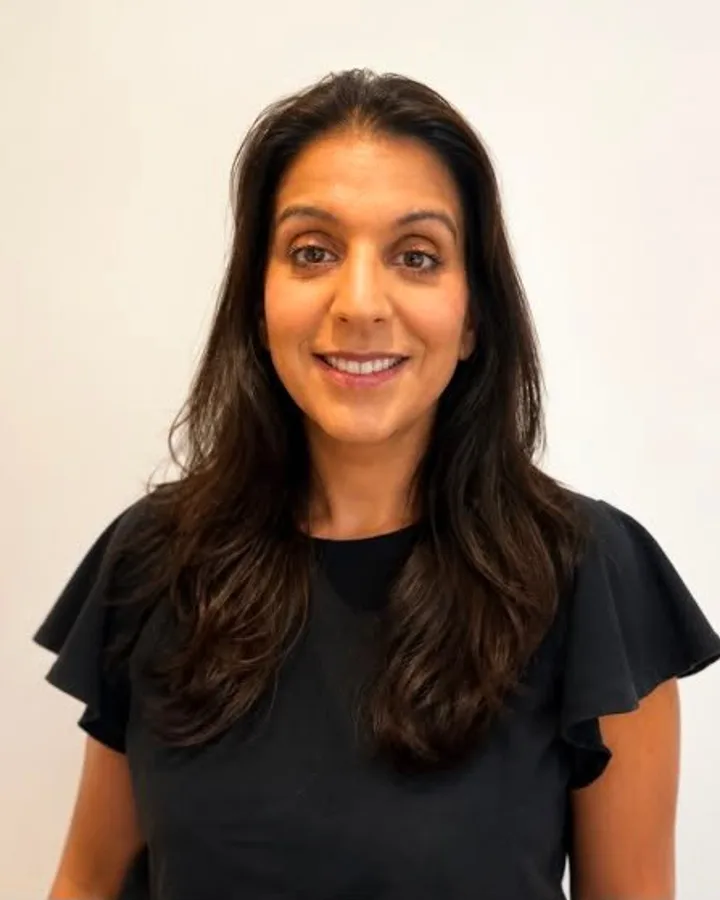
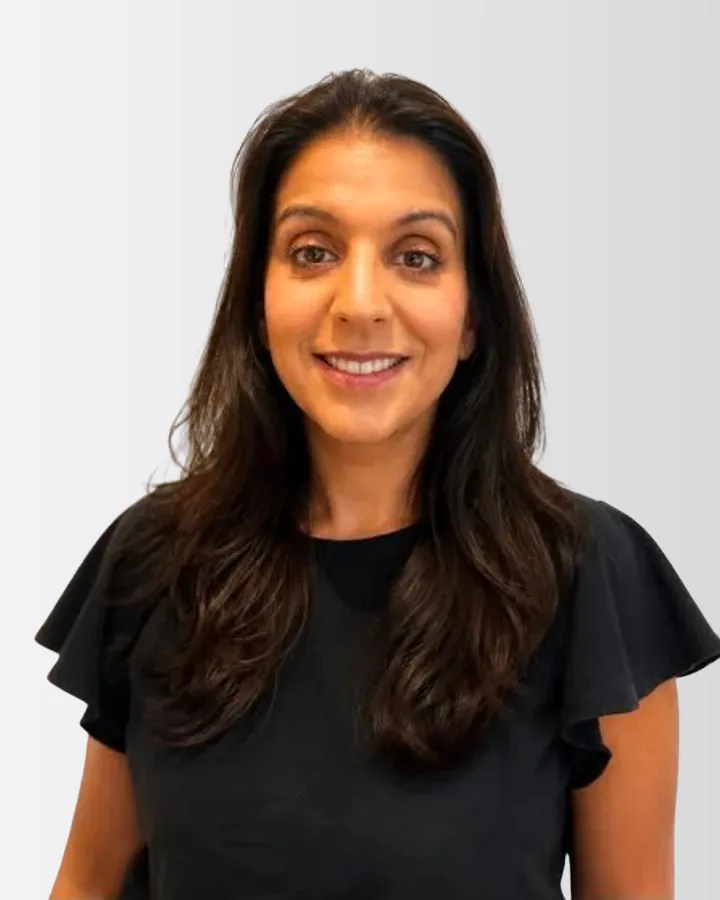
New photo for Dr Natasha Sumar; reviews slider mixes Doctify and Google
- Dr Natasha Sumar's headshot replaced with the supplied portrait, built
  to the same 4:5 crop as the other GP photos.
- Reviews slider now carries the latest ten Doctify reviews and the latest
  ten Google reviews, alternating one from each source. Review text, author
  and date come from the clinic's syndicated review feed, which tags each
  review with its source listing.
- Each card shows its source mark, long reviews are clamped so every card
  is the same height, and the section header now carries a Google rating
  alongside the Doctify one.

Claude-Session: https://claude.ai/code/session_01BfDfekHkooqy5vkZfJmkhr

diff --git a/public/index.html b/public/index.html
@@ -180,24 +180,42 @@ height="0" width="0" style="display:none;visibility:hidden"></iframe></noscript>
   <div class="container">
     <div class="reviews-head">
       <h2 id="reviews-title">What patients say after seeing a Niva GP</h2>
-      <a class="rating-pill" href="https://www.doctify.com/uk/practice/niva-medical-clinic" target="_blank" rel="noopener">
-        <img src="/assets/logos/doctify.svg" alt="Doctify" width="90" height="24">
-        <span class="stars" aria-hidden="true">★★★★★</span>
-        <strong>5.0</strong> <span>from 104 verified patients</span>
-      </a>
+      <div class="rating-pills">
+        <a class="rating-pill" href="https://www.doctify.com/uk/practice/niva-medical-clinic" target="_blank" rel="noopener">
+          <img src="/assets/logos/doctify.svg" alt="Doctify" width="90" height="24">
+          <span class="stars" aria-hidden="true">★★★★★</span>
+          <strong>5.0</strong> <span>from 104 verified patients</span>
+        </a>
+        <a class="rating-pill" href="https://maps.app.goo.gl/KWaXPmD4ticL5Gbr7" target="_blank" rel="noopener">
+          <img src="/assets/logos/google.svg" alt="Google" width="24" height="24">
+          <span class="stars" aria-hidden="true">★★★★★</span>
+          <strong>5.0</strong> <span>from 265 Google reviews</span>
+        </a>
+      </div>
     </div>
   </div>
   <div class="marquee">
     <div class="marquee-track">
-      <article class="review"><div class="stars" aria-label="5 stars">★★★★★</div><p>I had a wonderful experience at Niva Medical Clinic. The doctor was very professional, caring and attentive. A special mention to the amazing receptionist, who was incredibly friendly, helpful and welcoming and made me feel comfortable from the moment I arrived. Excellent service from start to finish.</p><footer><img src="/assets/logos/doctify.svg" alt="Doctify"> Verified patient, 4 Sep 2026</footer></article>
-      <article class="review"><div class="stars" aria-label="5 stars">★★★★★</div><p>We recently visited with my elderly parent and were extremely impressed. Dr Varsani took the time to listen patiently and explained everything clearly in Gujarati, which made my parent feel completely at ease and understood. We left feeling reassured and confident about the next steps.</p><footer><img src="/assets/logos/doctify.svg" alt="Doctify"> Verified patient, 26 Sep 2025</footer></article>
-      <article class="review"><div class="stars" aria-label="5 stars">★★★★★</div><p>Very impressed with the services provided by Niva. As a result I have decided to set up a Membership, not only to get a good discount on the appointments but also because of the options included. Very satisfied with the services I have been provided so far, not only by the GP but also the staff at the front desk.</p><footer><img src="/assets/logos/doctify.svg" alt="Doctify"> Verified patient, 20 May 2026</footer></article>
-      <article class="review"><div class="stars" aria-label="5 stars">★★★★★</div><p>I went in to get checked for a strain in my leg due to an injury and was diagnosed by Dr Bhavika. I felt so much at ease discussing my ailment with her. She was extremely polite, had a very pleasant and empathetic tone of voice and gave me clear instructions on what needs to be done. Highly recommend this clinic.</p><footer><img src="/assets/logos/doctify.svg" alt="Doctify"> Verified patient, 27 Feb 2026</footer></article>
-      <article class="review"><div class="stars" aria-label="5 stars">★★★★★</div><p>Nirav was professional, kind, and took the time to explain everything clearly without rushing. Most importantly, he was great with my 13-year-old and kept her calm and at ease throughout the appointment. Excellent service, would definitely recommend.</p><footer><img src="/assets/logos/doctify.svg" alt="Doctify"> Verified patient, 3 Feb 2026</footer></article>
-      <article class="review"><div class="stars" aria-label="5 stars">★★★★★</div><p>A truly positive experience! I took my 5-year-old son for several tests, and Dr Bhavika was excellent at her work and also very kind to my son. I highly recommend this clinic, and we'll definitely be back if we need it.</p><footer><img src="/assets/logos/doctify.svg" alt="Doctify"> Verified patient, 5 Dec 2025</footer></article>
-      <article class="review"><div class="stars" aria-label="5 stars">★★★★★</div><p>Had a great experience at Niva Medical Clinic in Stanmore. The clinic was spotless and welcoming, the reception was friendly and helpful, and the doctor took time to explain everything clearly. My appointment was efficient and stress-free. I left feeling reassured and content.</p><footer><img src="/assets/logos/doctify.svg" alt="Doctify"> Verified patient, 5 Dec 2025</footer></article>
-      <article class="review"><div class="stars" aria-label="5 stars">★★★★★</div><p>Very professional. Appointment was arranged with ease, the doctor was excellent. She listened carefully and was so reassuring. I couldn't fault their service. They went out of their way to help arrange the transportation of tests. We will definitely be using Niva Medical again.</p><footer><img src="/assets/logos/doctify.svg" alt="Doctify"> Verified patient, 10 Oct 2025</footer></article>
-      <article class="review"><div class="stars" aria-label="5 stars">★★★★★</div><p>I recently saw Dr Nirav Varsani. He was very conscientious, took his time to look after my needs and ensured the whole experience was as stress free as possible.</p><footer><img src="/assets/logos/doctify.svg" alt="Doctify"> Verified patient, 25 Sep 2025</footer></article>
+      <article class="review review-doctify"><div class="stars" aria-label="5 stars">★★★★★</div><p>I had a wonderful experience at Niva Medical Clinic. The doctor was very professional, caring and attentive. A special mention to the amazing receptionist, who was incredibly friendly, helpful and welcoming and made me feel comfortable from the moment I arrived. Excellent service from start to finish. I would highly recommend Niva Medical Clinic!</p><footer><img src="/assets/logos/doctify.svg" alt="Doctify"> Verified patient, 4 Sep 2026</footer></article>
+      <article class="review review-google"><div class="stars" aria-label="5 stars">★★★★★</div><p>I had an exceptional experience at this clinic. I was bitten by a dog on Friday evening and was very relieved to find plenty of appointment availability the following morning, allowing me to book in quickly. Despite arriving around 15 minutes late because of traffic, the doctor was extremely understanding and took the time to assess everything properly. He gave me clear, thorough advice on what to do next, including guidance around a vaccination booster, treatment and the necessary prescription. I felt very well looked after throughout the whole appointment. The doctor was knowledgeable, reassuring and took the time to address all of my concerns. Knowing that he also has A&amp;E experience was particularly reassuring given the nature of the incident. The clinic itself is very clean, bright, welcoming and professional. I felt comfortable and safe from the moment I arrived. Overall, an excellent experience from start to finish. I would absolutely recommend the clinic and would happily return in the future if I needed medical care again.</p><footer><img src="/assets/logos/google.svg" alt="Google"> Sean X, 17 Sep 2026</footer></article>
+      <article class="review review-doctify"><div class="stars" aria-label="5 stars">★★★★★</div><p>I was very welcome, seen promptly and made to feel welcomed</p><footer><img src="/assets/logos/doctify.svg" alt="Doctify"> Verified patient, 26 Aug 2026</footer></article>
+      <article class="review review-google"><div class="stars" aria-label="5 stars">★★★★★</div><p>From the time I paid the clinic a visit and getting to see a doctor. The experience was great and I have fully recovered. Thank you</p><footer><img src="/assets/logos/google.svg" alt="Google"> Ketan S, 9 Sep 2026</footer></article>
+      <article class="review review-doctify"><div class="stars" aria-label="5 stars">★★★★★</div><p>Excellent doctor. Very polite. Take his time to listen and consult. Very nice doctor. Highly recommend</p><footer><img src="/assets/logos/doctify.svg" alt="Doctify"> Verified patient, 30 Jun 2026</footer></article>
+      <article class="review review-google"><div class="stars" aria-label="5 stars">★★★★★</div><p>Dr was great. Helped my girlfriend with her ill health. Highly recommend this GP</p><footer><img src="/assets/logos/google.svg" alt="Google"> Pritesh P, 8 Sep 2026</footer></article>
+      <article class="review review-doctify"><div class="stars" aria-label="5 stars">★★★★★</div><p>Amazing staff</p><footer><img src="/assets/logos/doctify.svg" alt="Doctify"> Verified patient, 17 Jun 2026</footer></article>
+      <article class="review review-google"><div class="stars" aria-label="5 stars">★★★★★</div><p>We were visiting the UK from India with our daughter when she became unwell and needed urgent medical attention. We contacted Niva Medical Clinic and were able to get an appointment very quickly. The doctor was kind, patient and thorough, and took the time to examine our daughter properly and explain everything clearly. We felt very reassured and well looked after. The receptionist and the whole team were also very friendly and helpful. It was a huge relief to find such a caring and professional private GP clinic while we were away from home. We would definitely recommend Niva Medical Clinic in Stanmore to anyone needing prompt and reliable medical care. Thank you so much for looking after our daughter.</p><footer><img src="/assets/logos/google.svg" alt="Google"> Harshini K, 5 Sep 2026</footer></article>
+      <article class="review review-doctify"><div class="stars" aria-label="5 stars">★★★★★</div><p>Lovely surgery, met a very nice Dr, would go back and would recommend</p><footer><img src="/assets/logos/doctify.svg" alt="Doctify"> Verified patient, 17 Jun 2026</footer></article>
+      <article class="review review-google"><div class="stars" aria-label="5 stars">★★★★★</div><p>Thank you for the amazing services Niva Medical Clinic team. Very happy patient.</p><footer><img src="/assets/logos/google.svg" alt="Google"> Alex T, 2 Sep 2026</footer></article>
+      <article class="review review-doctify"><div class="stars" aria-label="5 stars">★★★★★</div><p>Very impressed with the services provided by Niva. As a result I have decided to set up a Membership not only to get a good discount on the appointments but also because of the options included to it. Looking forward to using their services more often going forward. Very satisfied with the services I have been provided so far not only by the GP but also the staff at the front desk.</p><footer><img src="/assets/logos/doctify.svg" alt="Doctify"> Verified patient, 20 May 2026</footer></article>
+      <article class="review review-google"><div class="stars" aria-label="5 stars">★★★★★</div><p>Very clean and well put together practice! I was very happy with their services...</p><footer><img src="/assets/logos/google.svg" alt="Google"> John G, 15 Aug 2026</footer></article>
+      <article class="review review-doctify"><div class="stars" aria-label="5 stars">★★★★★</div><p>I had great experience with Niva medical. Staff is very friendly. Dr Varsani has been very helpful from consultation till end of the process</p><footer><img src="/assets/logos/doctify.svg" alt="Doctify"> Verified patient, 6 Apr 2026</footer></article>
+      <article class="review review-google"><div class="stars" aria-label="5 stars">★★★★★</div><p>Please do not hesitate to book. I wish I had done it sooner. What a lovely place. Friendly receptionist and such a professional, kind dermatologist who made me feel at ease straight away and helped to sort out my skin problems. Thank you so much. Regards to you all</p><footer><img src="/assets/logos/google.svg" alt="Google"> Denise D, 11 Aug 2026</footer></article>
+      <article class="review review-doctify"><div class="stars" aria-label="5 stars">★★★★★</div><p>I’d normally see Dr Varsani but he wasn’t available, saw Dr Farhana Qureshi, she was lovely and listened and questioned me for my reasons being there. Gave me advice going forward and also the help I needed. The receptionist was so very friendly and helpful.</p><footer><img src="/assets/logos/doctify.svg" alt="Doctify"> Verified patient, 31 Mar 2026</footer></article>
+      <article class="review review-google"><div class="stars" aria-label="5 stars">★★★★★</div><p>Excellent customer service, dedicated and experienced health professionals. The care you get is excellent. The wait time and appointment time is quick. They go over and beyond to ensure you get quality health care at affordable prices. I would always recommend it. Snehal the receptionist is amazing, empathetic, caring and very attentive to patients.</p><footer><img src="/assets/logos/google.svg" alt="Google"> Kareen O, 8 Aug 2026</footer></article>
+      <article class="review review-doctify"><div class="stars" aria-label="5 stars">★★★★★</div><p>The Doctor and the staff were fantastic, friendly and just a very easy comfortable process</p><footer><img src="/assets/logos/doctify.svg" alt="Doctify"> Verified patient, 26 Mar 2026</footer></article>
+      <article class="review review-google"><div class="stars" aria-label="5 stars">★★★★★</div><p>From the moment I walked into Niva Medical, I knew I was in safe hands. The level of care, professionalism and genuine compassion from the entire team has been exceptional. They made what could have been a stressful experience feel reassuring every step of the way, always taking the time to explain everything clearly and making me feel completely looked after. Having now experienced the care at Niva Medical, I genuinely won’t be going anywhere else. It’s rare to find a team that combines medical expertise with such kindness and empathy. I can’t recommend them highly enough. Thank you to everyone at Niva Medical for the outstanding care.</p><footer><img src="/assets/logos/google.svg" alt="Google"> nidhi s, 30 Jul 2026</footer></article>
+      <article class="review review-doctify"><div class="stars" aria-label="5 stars">★★★★★</div><p>Amazing clinic caring staff! Fantastic team. Clinic was welcoming, clean and friendly.</p><footer><img src="/assets/logos/doctify.svg" alt="Doctify"> Verified patient, 20 Mar 2026</footer></article>
+      <article class="review review-google"><div class="stars" aria-label="5 stars">★★★★★</div><p>Amazing experience, very friendly and warm doctor</p><footer><img src="/assets/logos/google.svg" alt="Google"> Ben G, 14 Jul 2026</footer></article>
     </div>
   </div>
 </section>

diff --git a/public/assets/css/styles.css b/public/assets/css/styles.css
@@ -235,6 +235,7 @@ section[id], article[id] { scroll-margin-top: calc(var(--header-h) + 0.75rem); }
 .rating-pill { display: inline-flex; flex-wrap: wrap; align-items: center; gap: 0.35rem 0.75rem; background: var(--ice); border-radius: 18px; padding: 0.65rem 1rem 0.65rem 0.8rem; text-decoration: none; color: var(--navy); font-size: var(--t-sm); }
 .rating-pill > span:last-child { white-space: nowrap; }
 @media (min-width: 700px) { .rating-pill { flex-wrap: nowrap; border-radius: 999px; } }
+.rating-pills { display: flex; flex-wrap: wrap; gap: 0.75rem; }
 .rating-pill img { height: 24px; width: auto; }
 .rating-pill .stars { color: #F5A623; }
 .rating-pill strong { font-family: var(--font-display); font-weight: 800; }
@@ -249,9 +250,10 @@ section[id], article[id] { scroll-margin-top: calc(var(--header-h) + 0.75rem); }
   display: flex; flex-direction: column; gap: 0.75rem; border: 1px solid var(--line);
 }
 .review .stars { color: #2FC7A8; font-size: 0.95rem; letter-spacing: 1px; }
-.review p { margin: 0; font-size: var(--t-sm); line-height: 1.55; }
+.review p { margin: 0; font-size: var(--t-sm); line-height: 1.55; display: -webkit-box; -webkit-box-orient: vertical; -webkit-line-clamp: 9; overflow: hidden; }
 .review footer { margin-top: auto; font-size: var(--t-xs); color: var(--muted); display: flex; align-items: center; gap: 0.5rem; }
 .review footer img { height: 14px; width: auto; }
+.review-google footer img { height: 15px; }
 
 /* Inline review quote (spread through the page) */
 .quote {
